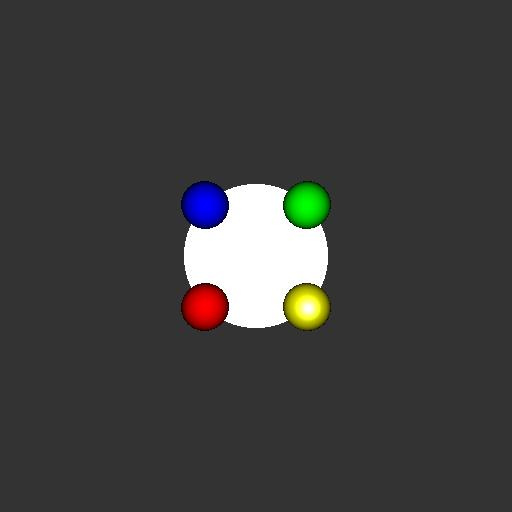
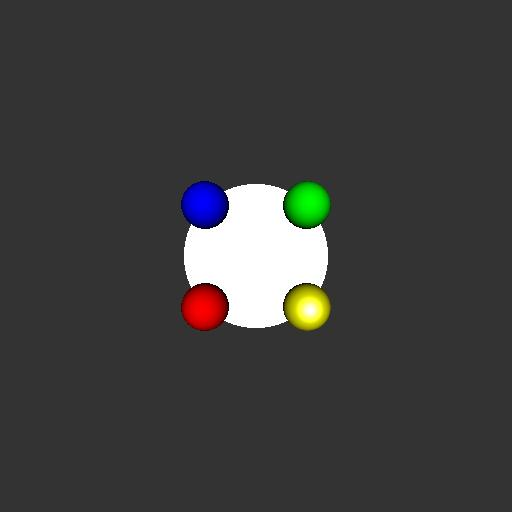
Triangle tracing working marginally better.

diff --git a/src/main/java/edu/byu/cs455/scene/object/Triangle.java b/src/main/java/edu/byu/cs455/scene/object/Triangle.java
@@ -73,10 +73,34 @@ public class Triangle extends SceneObject
 
     private boolean isIntersectionVectorInsideTriangle(Vector planeIntersectionVector)
     {
-        List<PlanePoint> vertices = getPlanarVertices(planeIntersectionVector);
+        Vector u = a.subtract(b);
+        Vector v = c.subtract(b);
+        double uu = u.dotProduct(u);
+        double uv = u.dotProduct(v);
+        double vv = v.dotProduct(v);
+        Vector w = planeIntersectionVector.subtract(b);
+        double wu = w.dotProduct(u);
+        double wv = w.dotProduct(v);
+        double denominator = (uv * uv) - (uu * vv);
+
+        //parametric coordinates
+        double s = ((uv * wv) - (vv * wu)) / denominator;
+        if (s < 0 || s > 1)
+        {
+            return false;
+        }
+        double t = ((uv * wu) - (uu * wv)) / denominator;
+        if (t < 0 || t > 1)
+        {
+            return false;
+        }
+
+        return true;
+
+        /*List<PlanePoint> vertices = getPlanarVertices(planeIntersectionVector);
         int numCrossings = getNumCrossings(vertices);
         //odd. Means intersection is inside triangle/polygon
-        return (numCrossings % 2 != 0);
+        return (numCrossings % 2 != 0);*/
     }
 
     private List<PlanePoint> getPlanarVertices(Vector planeIntersectionVector)
@@ -134,17 +158,22 @@ public class Triangle extends SceneObject
     private Vector getPlaneIntersectionVector(Ray ray)
     {
         //t = -(p_n \dot r_o + d)/(p_n \dot r_d)
-        double vd = getPlaneNormal().dotProduct(ray.getDirection());
+        double distanceDenominator = getPlaneNormal().dotProduct(ray.getDirection());
         //(p_n \dot r_d) == 0, parallel. (p_n \dot r_d) > 0 Plane normal pointing away from ray.
-        if (vd >= 0)
+        if (distanceDenominator <= 0)
         {
             return null;
         }
-        double vo = -(getPlaneNormal().dotProduct(ray.getOrigin()) + getPlaneDistance());
-        double intersectionDistance = vo / vd;
+        //double vo = -(getPlaneNormal().dotProduct(ray.getOrigin()) + getPlaneDistance());
+        double distanceNumerator = -(getPlaneNormal().dotProduct(ray.getOrigin().subtract(b)));
+        if (distanceNumerator == 0)
+        {
+            return null;
+        }
+        double intersectionDistance = distanceNumerator / distanceDenominator;
 
-        //intersectionDistance <= 0 means the "intersection" is behind the ray, so not a real intersection
-        return (intersectionDistance <= 0) ? null : ray.getLocation(intersectionDistance);
+        //intersectionDistance < 0 means the "intersection" is behind the ray, so not a real intersection
+        return intersectionDistance >= 0 ? ray.getLocation(intersectionDistance) : null;
     }
 
     private PlanePoint projectOnto2DPlane(Coordinate strippedCoordinate, Vector vector)

diff --git a/src/main/java/edu/byu/cs455/scene/material/Diffuse.java b/src/main/java/edu/byu/cs455/scene/material/Diffuse.java
@@ -39,7 +39,7 @@ public class Diffuse extends Material
         Vector diffuseReflectanceColor = getColorVector(getMaterialColor()); //cr
         Vector ambientColor = getColorVector(scene.getAmbientLightColor()); //ca
         Vector specularHighlightColor = getColorVector(getSpecularHighlight()); //cp
-        Vector directionToLight = scene.getDirectionToLight().subtract(intersectionPoint)
+        Vector directionToLight = scene.getDirectionToLight()
                 .normalize(); //l
         Vector reflectionVector = getReflectionVector(normal, directionToLight)
                 .normalize(); //r
@@ -98,6 +98,14 @@ public class Diffuse extends Material
 
     private double getPhongComponent(Vector eye, Vector reflection, double phongConstant)
     {
-        return Math.pow(Math.max(0, eye.dotProduct(reflection)), phongConstant);
+        double angleBetweenEyeAndReflection = eye.dotProduct(reflection);
+        angleBetweenEyeAndReflection = Math.max(0, angleBetweenEyeAndReflection);
+        return Math.pow(angleBetweenEyeAndReflection, phongConstant);
+    }
+
+    private double getLambertianComponent(Vector normal, Vector lightDirection)
+    {
+        double angleBetweenLightAndNormal = lightDirection.dotProduct(normal);
+        return Math.max(0, angleBetweenLightAndNormal);
     }
 }

diff --git a/src/main/java/edu/byu/cs455/scene/Scene.java b/src/main/java/edu/byu/cs455/scene/Scene.java
@@ -148,7 +148,7 @@ public class Scene
             }
         }
         if (actualIntersection != null)
-            return actualSceneObject.calculateIlluminationModel(actualIntersection, isInShadow(actualIntersection), this,ray);
+            return actualSceneObject.calculateIlluminationModel(actualIntersection, isInShadow(actualIntersection), this, ray);
         return getLight().getBackgroundColor();
     }
 
@@ -171,7 +171,7 @@ public class Scene
         double epsilon = 0.00001;
         Vector direction = getRayDirection(getLight().getDirectionToLight(), pointToCheck);
         Ray ray = new Ray(pointToCheck, direction);
-        Vector newOrigin = ray.getLocation(epsilon);
+        Vector newOrigin = ray.getLocation(epsilon).normalize();
         ray = new Ray(newOrigin, direction);
         return ray;
     }

diff --git a/src/main/java/edu/byu/cs455/scene/material/Material.java b/src/main/java/edu/byu/cs455/scene/material/Material.java
@@ -25,12 +25,6 @@ public abstract class Material
 
     public abstract Color calculateIlluminationModel(Vector normal, boolean isInShadow, Scene scene, Ray ray, Vector intersectionPoint);
 
-    protected double getLambertianComponent(Vector normal, Vector lightDirection)
-    {
-        double angleBetweenLightAndNormal = lightDirection.dotProduct(normal);
-        return Math.max(0, angleBetweenLightAndNormal);
-    }
-
     protected Vector getColorVector(Color color)
     {
         float[] rgb = new float[3];
